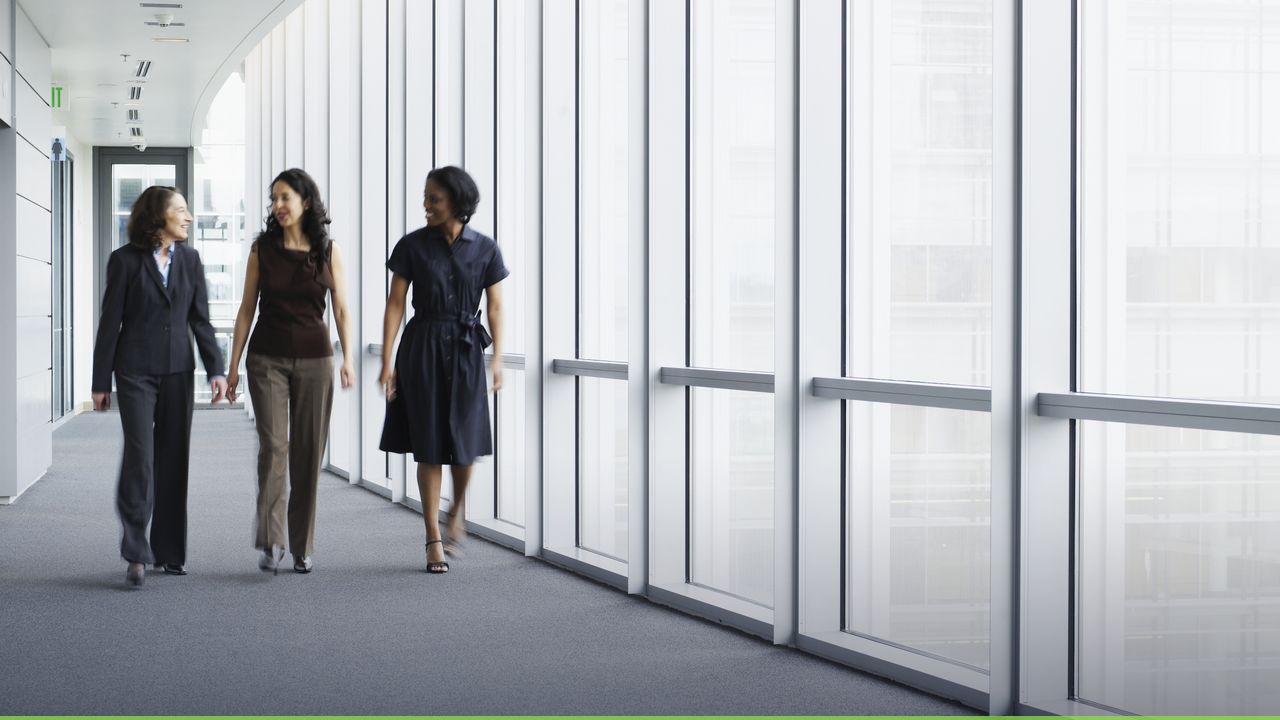
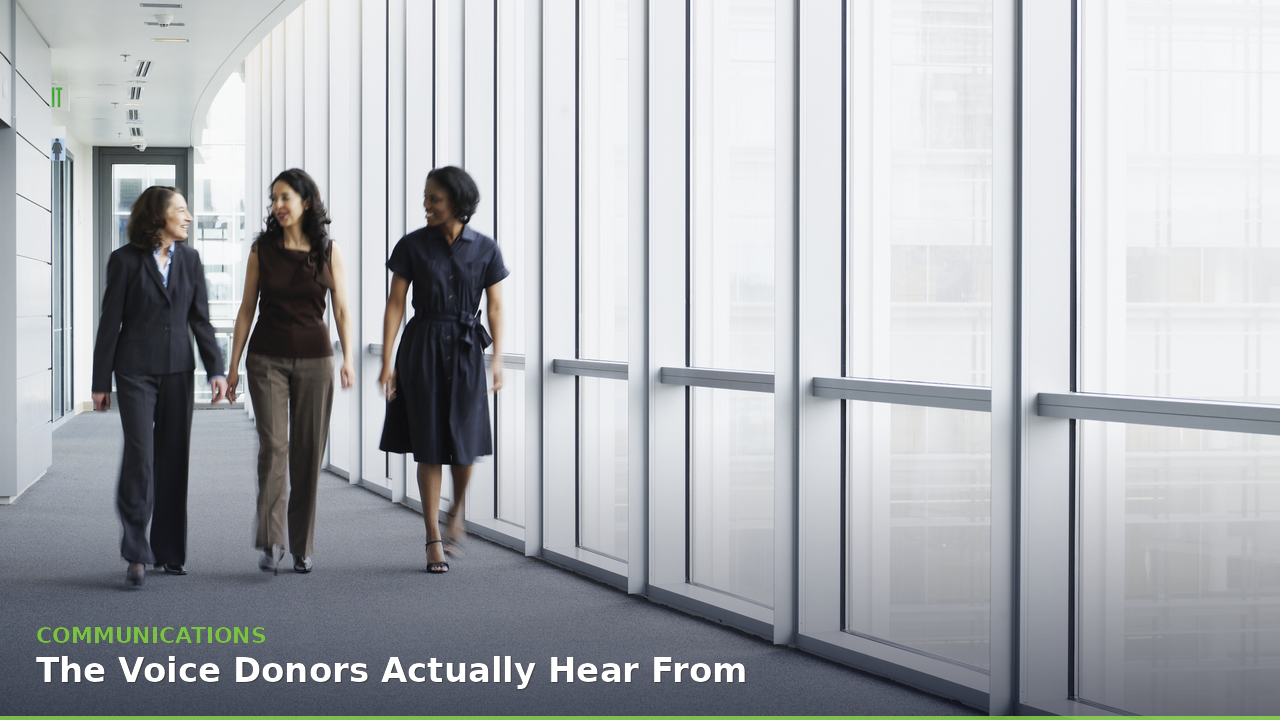
Capabilities: federal whisper labels on lifestyle section images

Changed region(s): [[0.0312, 0.7944, 1.0, 1.0]]

diff --git a/capabilities/index.html b/capabilities/index.html
@@ -6,7 +6,7 @@
 <title>Capabilities | iDONATEpro</title>
 <meta name="description" content="From a messy Scranton list to Dundies night — Contacts, Import, Email, Call Sheets, Events in one Donor book. Call Time that wins.">
 <link rel="icon" href="/favicon.ico">
-<link rel="stylesheet" href="/css/site.css?v=101">
+<link rel="stylesheet" href="/css/site.css?v=102">
 </head>
 <body>
 <header class="site-header">
@@ -74,7 +74,7 @@
   <div class="wrap capability-grid">
         <div class="cap-media">
       <figure class="cap-shot">
-        <img src="/img/capabilities/campaigns.png?v=3" alt="Campaigns story graphic" width="1280" height="720" loading="lazy">
+        <img src="/img/capabilities/campaigns.png?v=4" alt="Campaigns story graphic" width="1280" height="720" loading="lazy">
       </figure>
     </div>
 <div class="capability-copy">
@@ -99,7 +99,7 @@
   <div class="wrap capability-grid">
         <div class="cap-media">
       <figure class="cap-shot">
-        <img src="/img/capabilities/contacts.png?v=2" alt="Contacts story graphic" width="1280" height="720" loading="lazy">
+        <img src="/img/capabilities/contacts.png?v=4" alt="Contacts story graphic" width="1280" height="720" loading="lazy">
       </figure>
     </div>
 <div class="capability-copy">
@@ -132,7 +132,7 @@
   <div class="wrap capability-grid">
         <div class="cap-media">
       <figure class="cap-shot">
-        <img src="/img/capabilities/events.png?v=2" alt="Events story graphic" width="1280" height="720" loading="lazy">
+        <img src="/img/capabilities/events.png?v=4" alt="Events story graphic" width="1280" height="720" loading="lazy">
       </figure>
     </div>
 <div class="capability-copy">
@@ -187,7 +187,7 @@
   <div class="wrap capability-grid">
         <div class="cap-media">
       <figure class="cap-shot">
-        <img src="/img/capabilities/communications.png?v=2" alt="Communications story graphic" width="1280" height="720" loading="lazy">
+        <img src="/img/capabilities/communications.png?v=4" alt="Communications story graphic" width="1280" height="720" loading="lazy">
       </figure>
     </div>
 <div class="capability-copy">
@@ -215,7 +215,7 @@
   <div class="wrap capability-grid">
         <div class="cap-media">
       <figure class="cap-shot">
-        <img src="/img/capabilities/data.png?v=3" alt="Data story graphic" width="1280" height="720" loading="lazy">
+        <img src="/img/capabilities/data.png?v=4" alt="Data story graphic" width="1280" height="720" loading="lazy">
       </figure>
     </div>
 <div class="capability-copy">

diff --git a/icons/index.html b/icons/index.html
@@ -7,7 +7,7 @@
 <meta name="robots" content="noindex, nofollow">
 <meta name="description" content="Locked iDp icon set, five finishes.">
 <link rel="icon" href="/favicon.ico">
-<link rel="stylesheet" href="/css/site.css?v=101">
+<link rel="stylesheet" href="/css/site.css?v=102">
 <style>
 section.compare-board { padding: 3.25rem 0 5rem; background: var(--bg); }
 section.compare-board .wrap-board { width: min(72rem, calc(100% - 3rem)); margin-inline: auto; }

diff --git a/who-its-for/index.html b/who-its-for/index.html
@@ -6,7 +6,7 @@
 <title>Who It's For | iDONATEpro</title>
 <meta name="description" content="iDONATEpro is built for Political Fundraisers, Campaigns & Committees, and Regional Parties & 501(c) Organizations. See who you become with a Donor book that travels with you.">
 <link rel="icon" href="/favicon.ico">
-<link rel="stylesheet" href="/css/site.css?v=101">
+<link rel="stylesheet" href="/css/site.css?v=102">
 </head>
 <body>
 <header class="site-header">

diff --git a/index.html b/index.html
@@ -6,7 +6,7 @@
 <title>iDONATEpro | Political Fundraising CRM Software</title>
 <meta name="description" content="CRM software for Political Fundraisers, campaigns, committees, Regional Parties, and 501(c) Organizations. Book a free demo or start a 14-day trial.">
 <link rel="icon" href="/favicon.ico">
-<link rel="stylesheet" href="/css/site.css?v=101">
+<link rel="stylesheet" href="/css/site.css?v=102">
 </head>
 <body>
 <header class="site-header">

diff --git a/terms-and-conditions/index.html b/terms-and-conditions/index.html
@@ -6,7 +6,7 @@
 <title>Terms & Conditions | iDONATEpro</title>
 <meta name="description" content="CRM software for political fundraisers, campaigns, committees, regional parties, and 501(c) organizations. Book a free demo or start a 14-day trial.">
 <link rel="icon" href="/favicon.ico">
-<link rel="stylesheet" href="/css/site.css?v=101">
+<link rel="stylesheet" href="/css/site.css?v=102">
 </head>
 <body>
 <header class="site-header">

diff --git a/referral-program/index.html b/referral-program/index.html
@@ -6,7 +6,7 @@
 <title>Referral Program | iDONATEpro</title>
 <meta name="description" content="CRM software for Political Fundraisers, campaigns, committees, Regional Parties, and 501(c) Organizations. Book a free demo or start a 14-day trial.">
 <link rel="icon" href="/favicon.ico">
-<link rel="stylesheet" href="/css/site.css?v=101">
+<link rel="stylesheet" href="/css/site.css?v=102">
 </head>
 <body>
 <header class="site-header">

diff --git a/privacy-policy/index.html b/privacy-policy/index.html
@@ -6,7 +6,7 @@
 <title>Privacy Policy | iDONATEpro</title>
 <meta name="description" content="CRM software for political fundraisers, campaigns, committees, regional parties, and 501(c) organizations. Book a free demo or start a 14-day trial.">
 <link rel="icon" href="/favicon.ico">
-<link rel="stylesheet" href="/css/site.css?v=101">
+<link rel="stylesheet" href="/css/site.css?v=102">
 </head>
 <body>
 <header class="site-header">

diff --git a/testimonials/index.html b/testimonials/index.html
@@ -6,7 +6,7 @@
 <title>Testimonials | iDONATEpro</title>
 <meta name="description" content="CRM software for Political Fundraisers, campaigns, committees, Regional Parties, and 501(c) Organizations. Book a free demo or start a 14-day trial.">
 <link rel="icon" href="/favicon.ico">
-<link rel="stylesheet" href="/css/site.css?v=101">
+<link rel="stylesheet" href="/css/site.css?v=102">
 </head>
 <body>
 <header class="site-header">

diff --git a/security/index.html b/security/index.html
@@ -6,7 +6,7 @@
 <title>Security | iDONATEpro</title>
 <meta name="description" content="CRM software for political fundraisers, campaigns, committees, regional parties, and 501(c) organizations. Book a free demo or start a 14-day trial.">
 <link rel="icon" href="/favicon.ico">
-<link rel="stylesheet" href="/css/site.css?v=101">
+<link rel="stylesheet" href="/css/site.css?v=102">
 </head>
 <body>
 <header class="site-header">

diff --git a/pricing/index.html b/pricing/index.html
@@ -6,7 +6,7 @@
 <title>Pricing | iDONATEpro</title>
 <meta name="description" content="CRM software for Political Fundraisers, campaigns, committees, Regional Parties, and 501(c) Organizations. Book a free demo or start a 14-day trial.">
 <link rel="icon" href="/favicon.ico">
-<link rel="stylesheet" href="/css/site.css?v=101">
+<link rel="stylesheet" href="/css/site.css?v=102">
 </head>
 <body>
 <header class="site-header">

diff --git a/signup/index.html b/signup/index.html
@@ -6,7 +6,7 @@
 <title>Sign Up | iDONATEpro</title>
 <meta name="description" content="CRM software for Political Fundraisers, campaigns, committees, Regional Parties, and 501(c) Organizations. Book a free demo or start a 14-day trial.">
 <link rel="icon" href="/favicon.ico">
-<link rel="stylesheet" href="/css/site.css?v=101">
+<link rel="stylesheet" href="/css/site.css?v=102">
 </head>
 <body>
 <header class="site-header">

diff --git a/about/index.html b/about/index.html
@@ -6,7 +6,7 @@
 <title>About | iDONATEpro</title>
 <meta name="description" content="CRM software for Political Fundraisers, campaigns, committees, Regional Parties, and 501(c) Organizations. Book a free demo or start a 14-day trial.">
 <link rel="icon" href="/favicon.ico">
-<link rel="stylesheet" href="/css/site.css?v=101">
+<link rel="stylesheet" href="/css/site.css?v=102">
 </head>
 <body>
 <header class="site-header">
